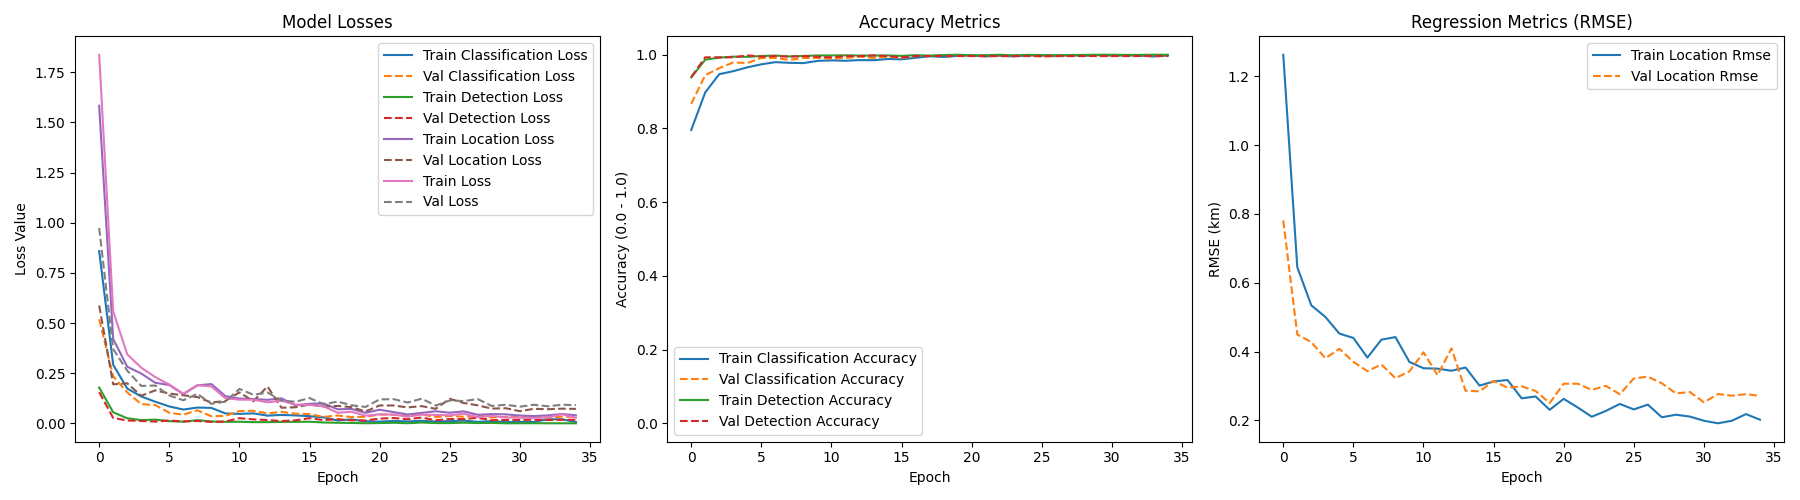
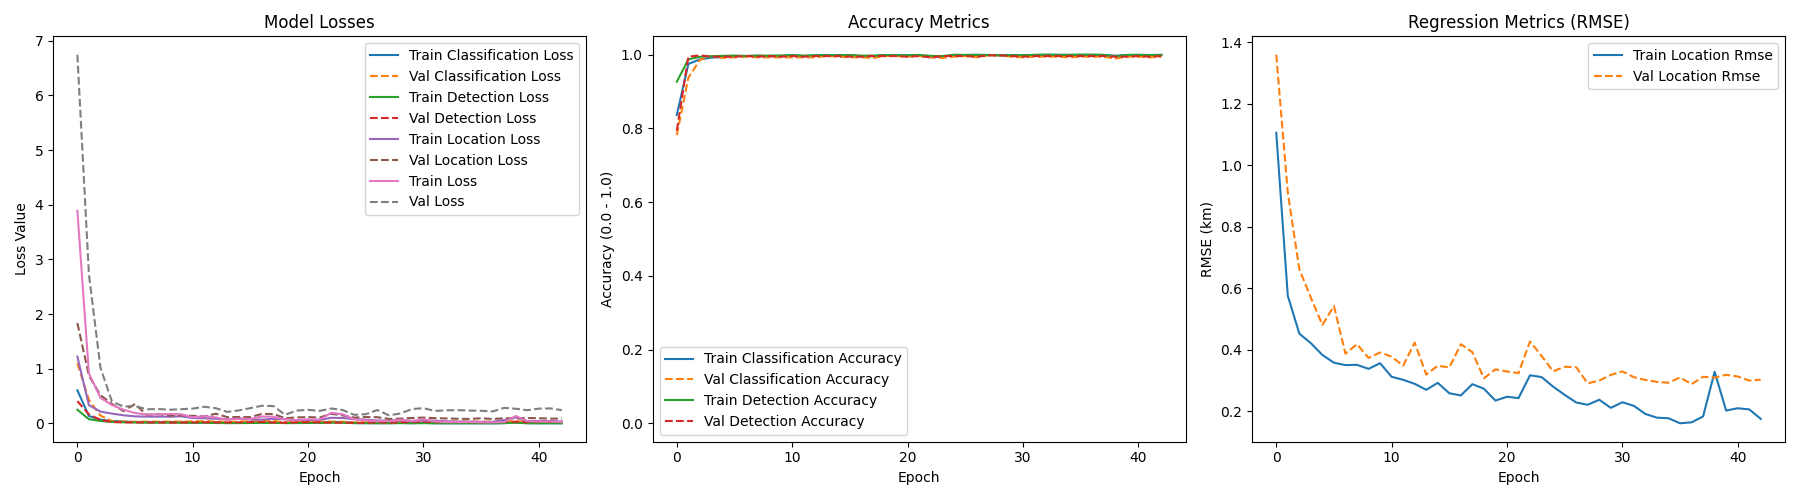
Final: Sync results for 100% accuracy model and updated metrics

diff --git a/app/composables/useApi.ts b/app/composables/useApi.ts
@@ -28,14 +28,22 @@ export const useApi = () => {
 
   /**
    * Fetches model performance metrics.
+   * Prioritizes local results/metrics.json if available.
    */
   const getMetrics = async () => {
     try {
-      const response = await $fetch(`${API_BASE_URL}/metrics`)
-      return response
-    } catch (error) {
-      console.error('API Error (getMetrics):', error)
-      throw error
+      // First try local results folder in public/
+      const localResponse = await $fetch('/results/metrics.json')
+      return localResponse
+    } catch (localError) {
+      console.warn('Local metrics not found, falling back to API:', localError)
+      try {
+        const apiResponse = await $fetch(`${API_BASE_URL}/metrics`)
+        return apiResponse
+      } catch (apiError) {
+        console.error('API Error (getMetrics):', apiError)
+        throw apiError
+      }
     }
   }
 
